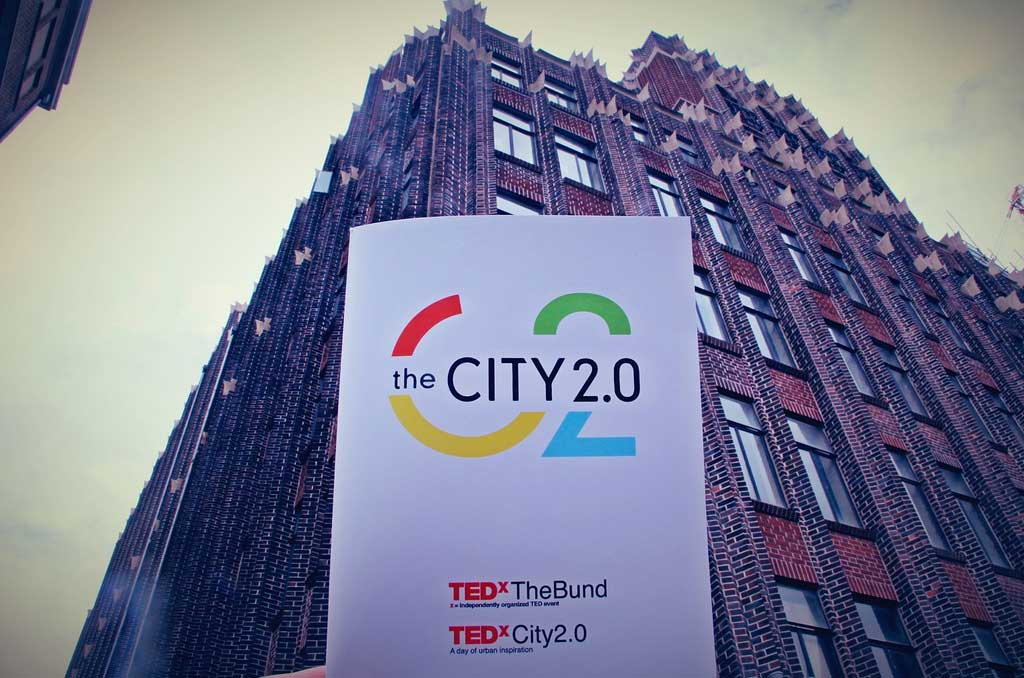
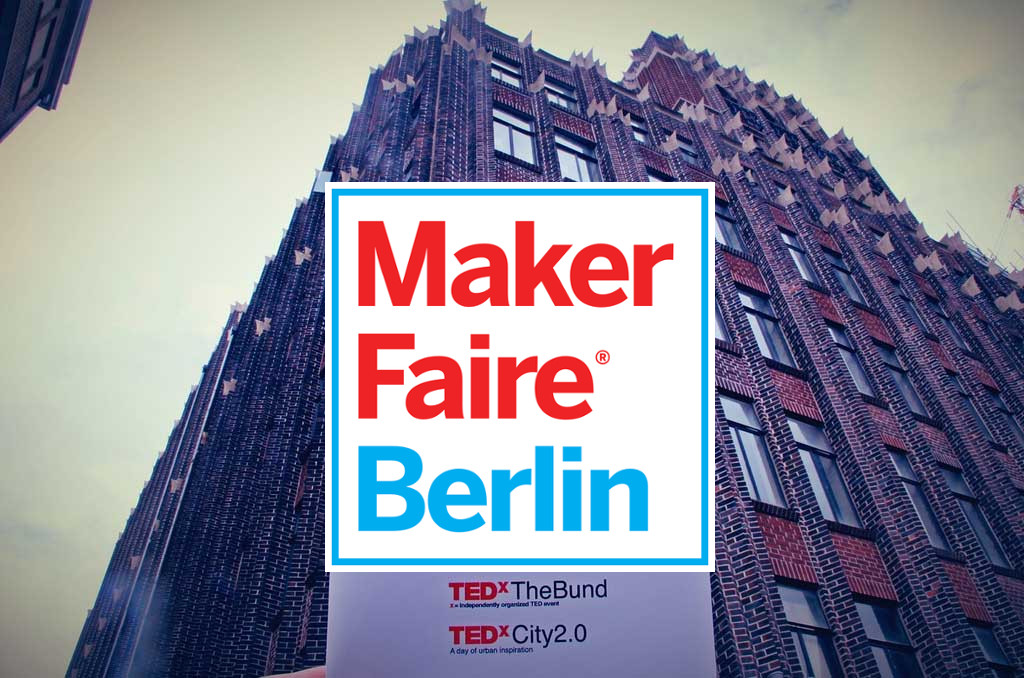
site

Changed region(s): [[0.3125, 0.2478, 0.7188, 0.8673]]

diff --git a/index.html b/index.html
@@ -127,7 +127,7 @@
 							<div class="row">
 								<div class="col-md-6 col-sm-6">
 									
-									<h1 class="large-h1 text-white">meshcon <br>@ Maker Faire Berlin<br><span>Postbahnhof at Ostbahnhof</span><span>&nbsp;&nbsp;</span><div>3 October 2015<br><br>Bringing together the Maker movements most forward thinking innovators</div></h1>
+									<h1 class="large-h1 text-white">meshcon <br>@ Maker Faire Berlin<br><span>Postbahnhof at Ostbahnhof</span><span>&nbsp;&nbsp;</span><div>3 October 2015<br><br>Bringing together the Maker movents most forward thinking innovators</div></h1>
 									<span class="lead text-white">Participants from across the world are joining the event in Berlin city.</span>
 								</div>
 								
@@ -244,6 +244,94 @@
 				</div>
 			</section>
 			
+			<section class="contained-gallery">
+				<div class="container">
+					<div class="row">
+					
+						<div class="col-md-7 col-sm-6">
+							<div class="lightbox-gallery">
+								<ul>
+									<li>
+										<a href="img/15361923259_0b9a195322_z.jpg" data-lightbox="true" data-title="Maker Faire">
+											<div class="background-image-holder">
+												<img class="background-image" alt="Maker Faire" src="img/15361923259_0b9a195322_z.jpg">
+											</div>
+										</a>
+									</li>
+						
+									<li>
+										<a href="img/15714982830_07fef80664_s.jpg" data-lightbox="true" data-title="Maker Event Meshcon Berlin">
+											<div class="background-image-holder">
+												<img class="background-image" alt="Maker Event Meshcon Berlin" src="img/15714982830_07fef80664_s.jpg">
+											</div>
+										</a>
+									</li>
+						
+									<li>
+										<a href="img/15364319677_81528ae736_z.jpg" data-lightbox="true" data-title="Maker Faire Berlin">
+											<div class="background-image-holder">
+												<img class="background-image" alt="Maker Faire Berlin" src="img/15364319677_81528ae736_z.jpg">
+											</div>
+										</a>
+									</li>
+						
+									<li>
+										<a href="img/14928712593_278e784a83_o.jpg" data-lightbox="true" data-title="Girls Makers at Maker Faire Meshcon">
+											<div class="background-image-holder">
+												<img class="background-image" alt="Girls Makers at Maker Faire Meshcon" src="img/14928712593_278e784a83_o.jpg">
+											</div>
+										</a>
+									</li>
+						
+									<li>
+										<a href="img/15345776488_5c21f08373_z.jpg" data-lightbox="true" data-title="Maker Events Meshcon">
+											<div class="background-image-holder">
+												<img class="background-image" alt="Maker Events Meshcon" src="img/15345776488_5c21f08373_z.jpg">
+											</div>
+										</a>
+									</li>
+						
+									<li>
+										<a href="img/lb6.jpg" data-lightbox="true" data-title="Meetup 2013">
+											<div class="background-image-holder">
+												<img class="background-image" alt="Lightbox Image" src="img/lb6.jpg">
+											</div>
+										</a>
+									</li>
+						
+									<li>
+										<a href="img/15344713928_f34618eccd_k.jpg" data-lightbox="true" data-title="Maker Faire and Kids">
+											<div class="background-image-holder">
+												<img class="background-image" alt="Maker Faire and Kids" src="img/15344713928_f34618eccd_k.jpg">
+											</div>
+										</a>
+									</li>
+						
+									<li>
+										<a href="img/makerfaire-berlin15.jpg" data-lightbox="true" data-title="Kids at Maker Event Meshcon">
+											<div class="background-image-holder">
+												<img class="background-image" alt="Kids at Maker Event Meshcon" src="img/makerfaire-berlin15.jpg">
+											</div>
+										</a>
+									</li>
+								</ul>
+							</div>
+						</div>
+					
+						<div class="col-md-5 col-sm-6">
+							<h1>#meshcon joins Maker Faire for a rousing success in Berlin</h1>
+							
+							<p class="lead">Maker Faire is a festival for crafting, constructing, inventing, experimenting, learning, recycling, inspiring and, above all, having fun. Previous Maker Faires in Germany attracted more than 50 exhibitors and over 10,000 visitors. meshcon joins up with Maker Faire to give attendees the chance to meet top technologists, fabricators, fashion designers &nbsp;and Open Tech developers from all over the world.</p>
+							
+							
+							<a href="http://makerfaire.berlin" class="btn btn-hollow" target="default">Makerfaire.Berlin</a>
+							
+						</div>
+						
+					</div>
+				</div>
+			</section>
+			
 			<a id="topics" class="in-page-link"></a>
 			
 			<section class="duplicatable-content visitor-info">
@@ -317,7 +405,7 @@
 				<div class="container">
 					<div class="row">
 						<div class="col-sm-12">
-							<h1>About</h1>
+							<h1>About meshcon</h1>
 						</div>
 					</div>
 				
@@ -327,9 +415,9 @@
 						
 					<div class="col-md-6">
 							<p class="lead">
-								At meshcon we are developing concepts and open technologies for the web and local and fair production.
+								At meshcon we are developing concepts and open technologies for the web and local and fair production with a special focus to FashionTec.
 						
-							</p><p>meshcon @Maker Faire Berlin brings together Open Web makers, IoT experts, industry representatives, fashion designers, producers, knitters, textile manipulators, software developers and DIY hardware makers. Participants from across the world are joining the event in Berlin city.</p>
+							</p><p>In 2015 meshcon joins up with Maker Faire Berlin for the first time to bring together Open Web makers, IoT experts, industry representatives, fashion designers, producers, knitters, textile manipulators, software developers and DIY hardware makers. Participants from across the world are joining the event in Berlin city.</p>
 							<a href="#" class="btn">Get Tickets</a>
 							
 						</div><div class="col-md-6">
@@ -504,7 +592,7 @@
 				<div class="container vertical-align">
 					<div class="row">
 						<div class="col-md-5 col-sm-7">
-							<h1 class="text-white">meshcon is the annual conference of the Open Tech Maker movement in Berlin featuring prominent icons from around the world.</h1>
+							<h1 class="text-white">meshcon is the annual conference of the Open Tech Maker and FashionTec movement in Berlin featuring prominent icons from around the world.</h1>
 							<p class="lead text-white">meshcon @Maker Faire Berlin brings together Open Web makers, IoT experts, industry representatives, fashion designers, local producers, knitters, textile manipulators, software developers and DIY hardware makers.</p>
 						</div>
 					</div>
